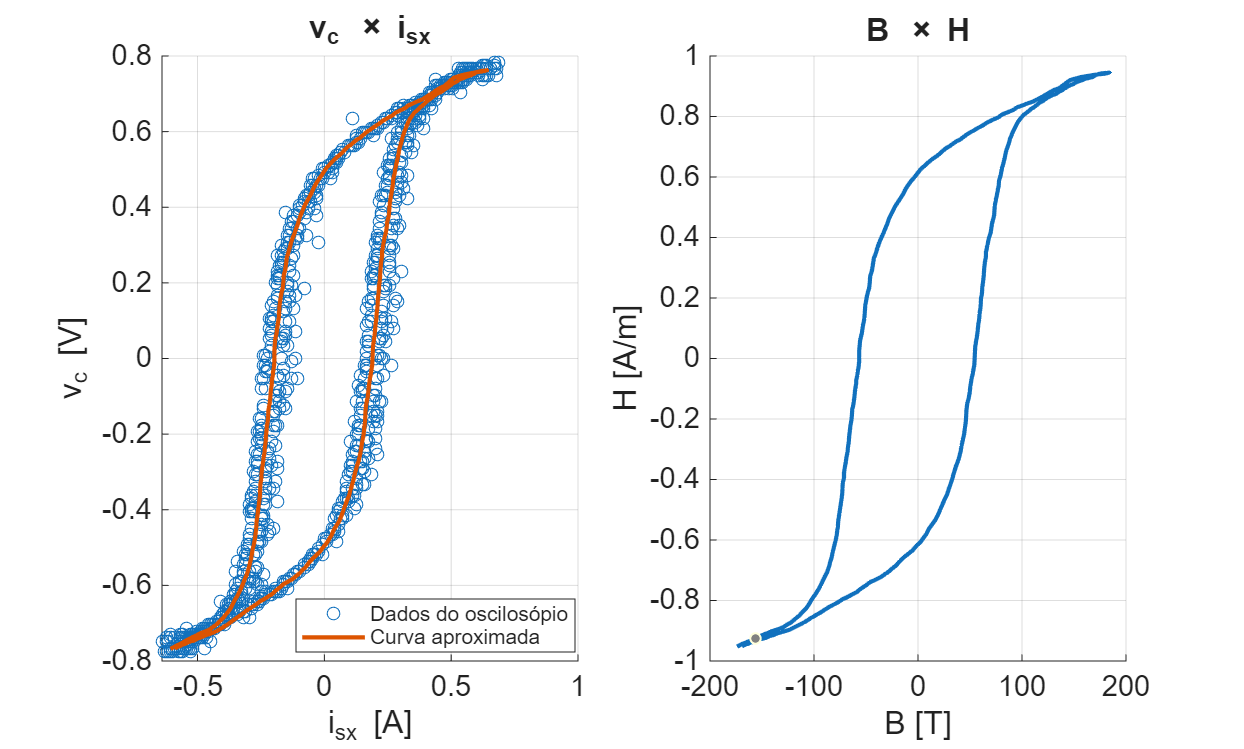
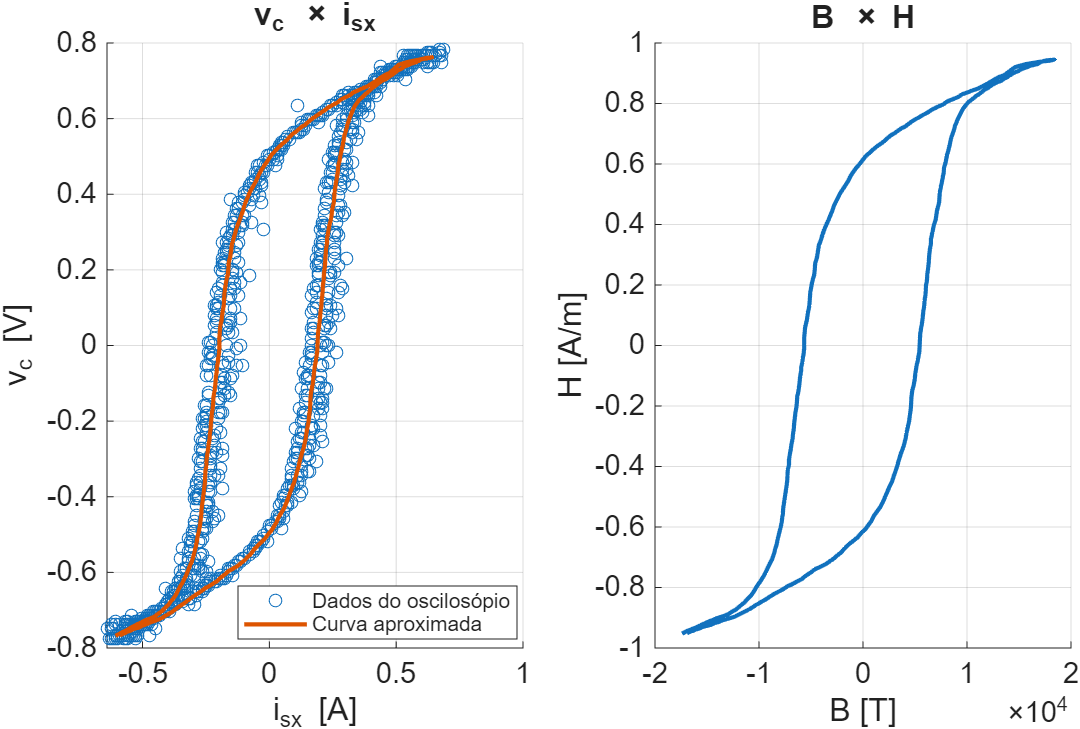
Pequenas correções e SciDAVis

diff --git a/histerese.m b/histerese.m
@@ -4,7 +4,7 @@ clc
 hist_osc = readtable('histerese_osciloscopio.csv');
 hist_approx = readtable('histerese_approx.csv');
 
-k3 = 2.87e2;
+k3 = 2.87e4;
 k4 = 1.24;
 
 H = hist_approx.Var1 *k3;
